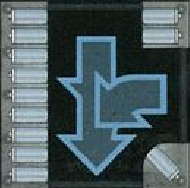
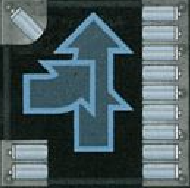
Added images to map
Code will need some simplifying, probably

diff --git a/roborally/src/main/java/dk/dtu/compute/se/pisd/roborally/view/SpaceView.java b/roborally/src/main/java/dk/dtu/compute/se/pisd/roborally/view/SpaceView.java
@@ -369,7 +369,47 @@ public class SpaceView extends StackPane implements ViewObserver {
      * @param spaceImageView ImageView of the space
      */
     private void drawConveyorBelt(ImageView spaceImageView) {
-        Image spaceImage = new Image("images/greenConveyor.png");
+        Image spaceImage;
+        if (((ConveyorBelt) space.getActions().get(0)).getCross() != null &&
+                ((ConveyorBelt) space.getActions().get(0)).getBelt() >= 2) {
+            spaceImage = new Image("images/tBlue.png");
+        } else if (((ConveyorBelt) space.getActions().get(0)).getCross() != null &&
+                ((ConveyorBelt) space.getActions().get(0)).getBelt() == 1) {
+            spaceImage = new Image("images/tGreen4.png");
+        }else if (((ConveyorBelt) space.getActions().get(0)).getTurn() == Heading.WEST &&
+                ((ConveyorBelt) space.getActions().get(0)).getBelt() >= 2 &&
+                ((ConveyorBelt) space.getActions().get(0)).getTea() == Heading.SOUTH) {
+            spaceImage = new Image("images/tBlue1.png");
+        }else if (((ConveyorBelt) space.getActions().get(0)).getTurn() == Heading.WEST &&
+                    ((ConveyorBelt) space.getActions().get(0)).getBelt() == 1 &&
+                    ((ConveyorBelt) space.getActions().get(0)).getTea() == Heading.SOUTH) {
+                spaceImage = new Image("images/tGreen1.png");
+        }else if (((ConveyorBelt) space.getActions().get(0)).getTurn() == Heading.EAST &&
+                ((ConveyorBelt) space.getActions().get(0)).getBelt() >= 2 &&
+                ((ConveyorBelt) space.getActions().get(0)).getTea() == Heading.NORTH) {
+            spaceImage = new Image("images/tBlue2.png");
+        }else if (((ConveyorBelt) space.getActions().get(0)).getTurn() == Heading.EAST &&
+                ((ConveyorBelt) space.getActions().get(0)).getBelt() == 1 &&
+                ((ConveyorBelt) space.getActions().get(0)).getTea() == Heading.NORTH) {
+            spaceImage = new Image("images/tGreen2.png");
+        } else if (((ConveyorBelt) space.getActions().get(0)).getTurn() == Heading.WEST &&
+                ((ConveyorBelt) space.getActions().get(0)).getBelt() >= 2) {
+            spaceImage = new Image("images/blueTurnLeft.png");
+        }else if (((ConveyorBelt) space.getActions().get(0)).getTurn() == Heading.EAST &&
+                ((ConveyorBelt) space.getActions().get(0)).getBelt() >= 1) {
+            spaceImage = new Image("images/blueTurnRight.png");
+        }else if (((ConveyorBelt) space.getActions().get(0)).getTurn() == Heading.EAST &&
+                ((ConveyorBelt) space.getActions().get(0)).getBelt() == 1) {
+            spaceImage = new Image("images/greenTurnRight.png");
+        }else if (((ConveyorBelt) space.getActions().get(0)).getTurn() == Heading.WEST &&
+                ((ConveyorBelt) space.getActions().get(0)).getBelt() == 1) {
+            spaceImage = new Image("images/greenTurnLeft.png");
+        } else if (((ConveyorBelt)space.getActions().get(0)).getBelt() >= 2) {
+            spaceImage = new Image("images/blueConveyor.png");
+        } else {
+            spaceImage = new Image("images/greenConveyor.png");
+        }
+
         spaceImageView.setImage(spaceImage);
         switch (((ConveyorBelt)space.getActions().get(0)).getHeading()) {
             case NORTH:

diff --git a/roborally/src/main/java/dk/dtu/compute/se/pisd/roborally/controller/ConveyorBelt.java b/roborally/src/main/java/dk/dtu/compute/se/pisd/roborally/controller/ConveyorBelt.java
@@ -39,6 +39,8 @@ public class ConveyorBelt extends FieldAction {
     private Heading heading;
     private Heading turn;
 
+    private Heading cross;
+    private Heading tea;
     public Heading getHeading() {
         return heading;
     }
@@ -56,7 +58,9 @@ public class ConveyorBelt extends FieldAction {
 
     public void setTurn(Heading turn) {this.turn = turn;}
 
-    //If heading turn = west then turn left, all others turn right TODO: switch statement to better handle
+    public Heading getCross() {return cross;}
+    public Heading getTea() {return tea;}
+    //If heading turn = west then turn left, east turn right
     @Override
     public boolean doAction(@NotNull GameController gameController, @NotNull Space space) {
         boolean turned = false;
@@ -69,9 +73,11 @@ public class ConveyorBelt extends FieldAction {
         Space neighbour = space.board.getNeighbour(space,heading);
 
         //This is a suprise tool that will help us later.
-        for (FieldAction action : neighbour.getActions()) {
-            if (action instanceof ConveyorBelt) {
-               optional = ((ConveyorBelt) action).getHeading();
+        if (neighbour != null) {
+            for (FieldAction action : neighbour.getActions()) {
+                if (action instanceof ConveyorBelt) {
+                   optional = ((ConveyorBelt) action).getHeading();
+                }
             }
         }
 
@@ -100,6 +106,7 @@ public class ConveyorBelt extends FieldAction {
         for (FieldAction action : space.getActions()) {
             if (action instanceof ConveyorBelt && ((ConveyorBelt) action).getHeading() != heading1) {
                 if (((ConveyorBelt) action).getTurn() == WEST) {
+                    //If turn is not applied on the json, it always turns players right
                     space.getPlayer().setHeading(space.getPlayer().getHeading().prev());
                     return true;
                 } else {
